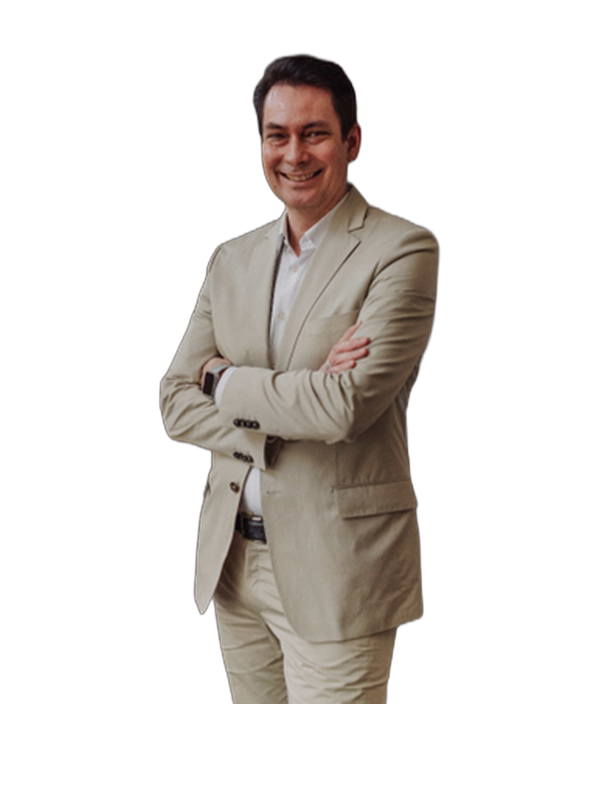
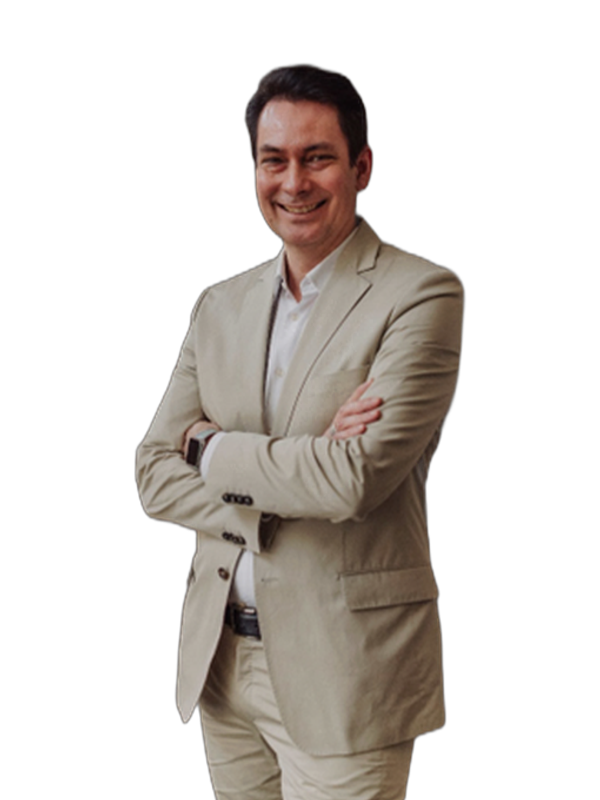
pushing into staging branch

Changed region(s): [[0.21, 0.0625, 0.78, 1.0]]

diff --git a/app/what-we-deliver/[slug]/page.tsx b/app/what-we-deliver/[slug]/page.tsx
@@ -23,12 +23,14 @@ export async function generateMetadata({ params }: ServiceRouteProps): Promise<M
   }
 
   const canonical = `/what-we-deliver/${service.slug}`;
-  const description = `${service.line} ${siteName} delivers ${service.title} end-to-end as an embedded partner.`;
+  const description = service.upcoming
+    ? service.upcomingNote
+    : `${service.line} ${siteName} delivers ${service.title} end-to-end as an embedded partner.`;
 
   return {
     title: service.title,
     description,
-    keywords: service.keywords,
+    keywords: service.upcoming ? undefined : service.keywords,
     alternates: { canonical },
     openGraph: {
       title: `${service.title} | ${siteName}`,
@@ -53,30 +55,34 @@ export default async function ServiceRoute({ params }: ServiceRouteProps) {
 
   const canonical = `${siteUrl}/what-we-deliver/${service.slug}`;
 
-  const serviceJsonLd = {
-    "@context": "https://schema.org",
-    "@type": "Service",
-    "@id": `${canonical}#service`,
-    name: service.title,
-    serviceType: service.title,
-    description: service.line,
-    provider: { "@id": `${siteUrl}/#organization` },
-    url: canonical,
-    areaServed: ["IN", "AE", "GB", "US"],
-    hasOfferCatalog: {
-      "@type": "OfferCatalog",
-      name: `${service.title} sub-capabilities`,
-      itemListElement: service.subs.map((sub, idx) => ({
-        "@type": "Offer",
-        position: idx + 1,
-        itemOffered: {
-          "@type": "Service",
-          name: sub.label,
-          description: sub.desc,
+  // No Service schema for a sector we haven't entered — publishing one would
+  // advertise an offering that doesn't exist.
+  const serviceJsonLd = service.upcoming
+    ? null
+    : {
+        "@context": "https://schema.org",
+        "@type": "Service",
+        "@id": `${canonical}#service`,
+        name: service.title,
+        serviceType: service.title,
+        description: service.line,
+        provider: { "@id": `${siteUrl}/#organization` },
+        url: canonical,
+        areaServed: ["IN", "AE", "GB", "US"],
+        hasOfferCatalog: {
+          "@type": "OfferCatalog",
+          name: `${service.title} sub-capabilities`,
+          itemListElement: service.subs.map((sub, idx) => ({
+            "@type": "Offer",
+            position: idx + 1,
+            itemOffered: {
+              "@type": "Service",
+              name: sub.label,
+              description: sub.desc,
+            },
+          })),
         },
-      })),
-    },
-  };
+      };
 
   const breadcrumbJsonLd = {
     "@context": "https://schema.org",
@@ -100,10 +106,12 @@ export default async function ServiceRoute({ params }: ServiceRouteProps) {
 
   return (
     <PageShell>
-      <script
-        type="application/ld+json"
-        dangerouslySetInnerHTML={{ __html: JSON.stringify(serviceJsonLd) }}
-      />
+      {serviceJsonLd && (
+        <script
+          type="application/ld+json"
+          dangerouslySetInnerHTML={{ __html: JSON.stringify(serviceJsonLd) }}
+        />
+      )}
       <script
         type="application/ld+json"
         dangerouslySetInnerHTML={{ __html: JSON.stringify(breadcrumbJsonLd) }}

diff --git a/app/what-we-deliver/_components/service-detail.tsx b/app/what-we-deliver/_components/service-detail.tsx
@@ -11,6 +11,42 @@ const PHASE_NUMS = ["01", "02", "03"] as const;
 const PHASE_KEYS: PhaseKey[] = ["build", "operate", "transfer"];
 
 export function ServiceDetail({ service }: { service: Service }) {
+  // Sectors we haven't entered yet get the hero and nothing else. There is no
+  // delivery content to show, and inventing any would misrepresent the firm.
+  if (service.upcoming) {
+    return (
+      <main className="ed-page">
+        <section className="ed-detail-hero ed-detail-hero--solo">
+          <div className="ed-shell">
+            <nav className="ed-breadcrumb" aria-label="Breadcrumb">
+              <Link href="/what-we-deliver">What We Deliver</Link>
+              <span className="sep">/</span>
+              <span className="cur">{service.num} · {service.title}</span>
+            </nav>
+
+            <div className="ed-detail-headline">
+              <div className="ed-detail-mark" aria-hidden="true">
+                <ServiceIcon slug={service.slug} size={28} strokeWidth={1.7} />
+              </div>
+              <div>
+                <h1>
+                  {service.titleSoft && <span className="soft">{service.titleSoft}</span>}
+                  <span className="strong">{service.titleStrong ?? service.title}</span>
+                </h1>
+                <p className="ed-detail-line">{service.upcomingNote}</p>
+                <div className="ed-detail-actions">
+                  <Link className="solid-button" href="/contact#inquiry">
+                    Connect With HARTS
+                  </Link>
+                </div>
+              </div>
+            </div>
+          </div>
+        </section>
+      </main>
+    );
+  }
+
   const phaseNames: [string, string, string] =
     service.bot.names ?? ["Build", "Operate", "Transfer"];
 
@@ -171,7 +207,7 @@ export function ServiceDetail({ service }: { service: Service }) {
 
           <div className="ed-detail-actions" style={{ marginTop: 32 }}>
             <Link className="outline-button" href="/contact#inquiry">
-              Connect With Us
+              Connect With HARTS
             </Link>
           </div>
         </div>

diff --git a/app/_data/services.ts b/app/_data/services.ts
@@ -11,7 +11,7 @@ export type ServiceSub = {
   children?: ServiceSubChild[];
 };
 
-export type Service = {
+type ServiceBase = {
   slug: string;
   num: string;
   color: ServiceColor;
@@ -20,6 +20,21 @@ export type Service = {
   titleSoft?: string;
   titleStrong?: string;
   line: string;
+};
+
+/**
+ * A sector we have named but not yet entered. Carries no delivery content by
+ * design — the detail page renders the hero only. Nothing here may describe
+ * capabilities, methodology, or outcomes that do not exist yet.
+ */
+type UpcomingService = ServiceBase & {
+  upcoming: true;
+  /** Single paragraph shown in the hero. State the intent, nothing more. */
+  upcomingNote: string;
+};
+
+type DeliveredService = ServiceBase & {
+  upcoming?: false;
   voice: string;
   /** Headline shown above the "How We Deliver This" section on the service
    *  detail page. Per-service so the page doesn't read as boilerplate. */
@@ -31,6 +46,8 @@ export type Service = {
   /** SEO keywords targeted by this service's detail page. */
   keywords: string[];
 };
+
+export type Service = DeliveredService | UpcomingService;
 
 export const services: Service[] = [
   {
@@ -305,6 +322,18 @@ export const services: Service[] = [
       "executive coaching for transformation",
       "leadership development coaching",
     ],
+  },
+  {
+    slug: "manufacturing",
+    num: "07",
+    color: "orange",
+    title: "Manufacturing",
+    titleSoft: "Manufacturing",
+    titleStrong: "On our horizon.",
+    line: "A sector HARTS is preparing to move into.",
+    upcoming: true,
+    upcomingNote:
+      "Manufacturing is a sector HARTS is preparing to move into as the firm grows. We are not taking on manufacturing engagements at this stage. As this work takes shape, the detail will be published here.",
   },
 ];
 

diff --git a/app/styles/services-and-bot.css b/app/styles/services-and-bot.css
@@ -86,12 +86,13 @@
   border-top: 1px solid var(--line);
 }
 
-/* Two-column variant: 3 rows on the left, 3 rows on the right
-   (items fill column-first via grid-auto-flow). */
+/* Two-column variant: fills column-first via grid-auto-flow, e.g. 4 rows on
+   the left / 3 on the right for 7 items. Row count sized for up to 8 items;
+   raise it if the service list grows past that. */
 .ed-svc-list--two-col {
   display: grid;
   grid-template-columns: 1fr 1fr;
-  grid-template-rows: repeat(3, 1fr);
+  grid-template-rows: repeat(4, 1fr);
   grid-auto-flow: column;
   column-gap: clamp(32px, 5vw, 72px);
   align-items: stretch;
@@ -201,6 +202,12 @@
   overflow: hidden;
   padding: clamp(60px, 7.5vw, 88px) 0 clamp(20px, 2.5vw, 32px);
   background: #ffffff;
+}
+
+/* Hero is the whole page (no sections follow it), so it carries its own
+   bottom spacing instead of the tight lead-in to the next section. */
+.ed-detail-hero--solo {
+  padding-bottom: clamp(64px, 8vw, 104px);
 }
 
 .ed-hero-wave {

diff --git a/app/what-we-deliver/page.tsx b/app/what-we-deliver/page.tsx
@@ -34,7 +34,7 @@ export default function WhatWeDeliverRoute() {
           subtitle="We work alongside your team and stay until the change runs. Pick the engagement that fits the work in front of you."
           actions={
             <Link className="solid-button large" href="/contact">
-              Talk to a partner
+              Connect With HARTS
             </Link>
           }
         />
@@ -76,7 +76,7 @@ export default function WhatWeDeliverRoute() {
         <FinalCTA
           heading={<>Not sure which one fits? <em>Start with where you are.</em></>}
           body="Tell us the moment your organisation is in. We will come back with the service mix that actually fits."
-          primary={{ label: "Talk to a partner", href: "/contact" }}
+          primary={{ label: "Connect With HARTS", href: "/contact" }}
           secondary={{ label: "See the Three Stages", href: "/where-you-stand" }}
         />
       </main>

diff --git a/app/where-you-stand/page.tsx b/app/where-you-stand/page.tsx
@@ -35,7 +35,7 @@ export default function WhereYouStandRoute() {
           subtitle="Three stages of operational maturity. We organise around the moment your business is in, not the sector it operates in."
           actions={
             <Link className="solid-button large" href="/contact">
-              Talk to a partner
+              Connect With HARTS
             </Link>
           }
         />
@@ -123,7 +123,7 @@ export default function WhereYouStandRoute() {
         <FinalCTA
           heading={<>Tell us <em>where you are.</em></>}
           body="A short conversation is faster than a brochure. We will come back with the engagement model that fits the stage you are in."
-          primary={{ label: "Talk to a partner", href: "/contact" }}
+          primary={{ label: "Connect With HARTS", href: "/contact" }}
           secondary={{ label: "What We Deliver", href: "/what-we-deliver" }}
         />
       </main>

diff --git a/app/_components/home-experience.tsx b/app/_components/home-experience.tsx
@@ -202,7 +202,7 @@ export function HomeExperience() {
         eyebrow="Partner With HARTS"
         heading={<>Navigate transformation <em>with confidence.</em></>}
         body="The future belongs to organisations that adapt, evolve, and lead with clarity. HARTS helps businesses move forward with intelligent strategy and connected transformation."
-        primary={{ label: "Connect With Us", href: "/contact" }}
+        primary={{ label: "Connect With HARTS", href: "/contact" }}
       />
     </main>
   );

diff --git a/app/_shared/icons.tsx b/app/_shared/icons.tsx
@@ -26,6 +26,7 @@ import {
   Lightbulb,
   MessageSquare,
   Rocket,
+  Factory,
 } from "lucide-react";
 import type { ComponentType, SVGProps } from "react";
 
@@ -36,6 +37,7 @@ const serviceIconMap = {
   "gcc-and-shared-services": Globe2,
   "recruitment-as-a-service": UserPlus,
   "executive-coaching": Compass,
+  manufacturing: Factory,
 } as const;
 
 export function ServiceIcon({

diff --git a/app/about-us/_components/about-page.tsx b/app/about-us/_components/about-page.tsx
@@ -95,7 +95,7 @@ export function AboutPage() {
         actions={
           <>
             <Link className="solid-button large" href="/contact">
-              Connect with HARTS
+              Connect With HARTS
             </Link>
           </>
         }
